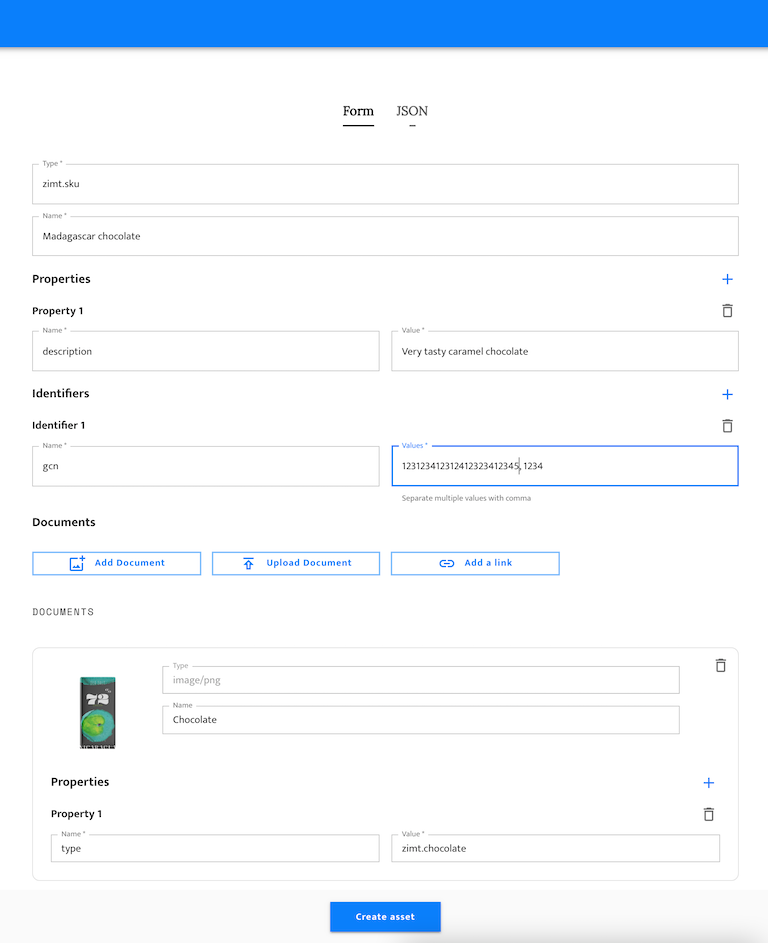
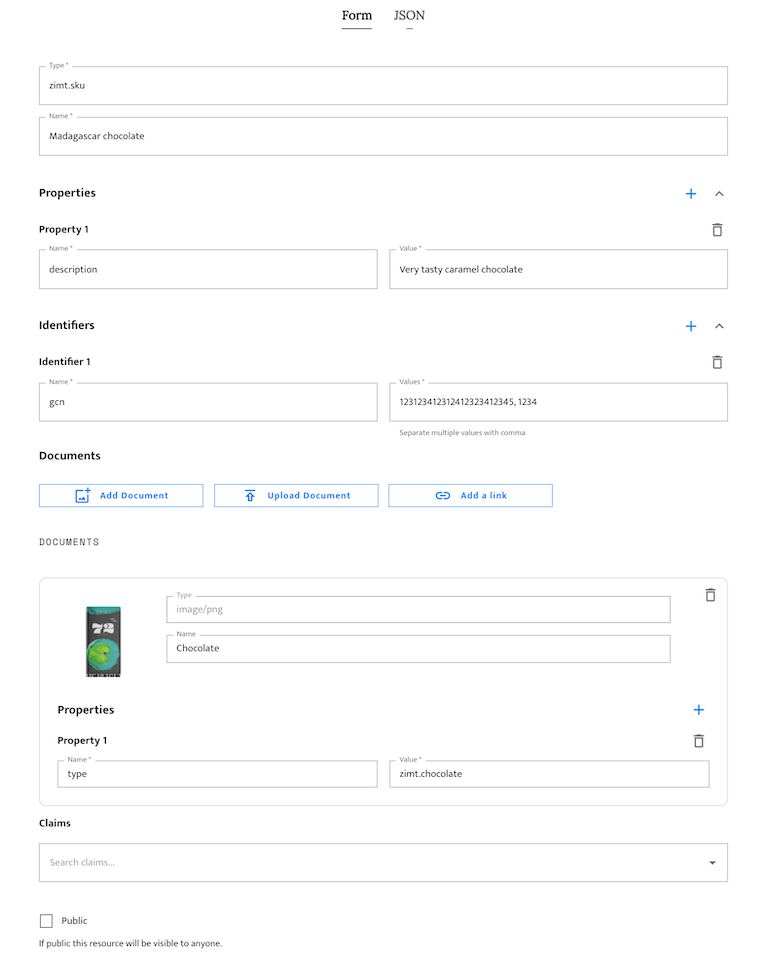
Update optimizations

diff --git a/src/app/components/UI/TextField/TextField.js b/src/app/components/UI/TextField/TextField.js
@@ -1,73 +1,108 @@
-import React from 'react';
+import React, { useState, useEffect, useCallback } from 'react';
 import { TextField, makeStyles } from '@material-ui/core';
 
-import { rgbToRGBA } from '../../../utils';
+import { FormLabel, Typography } from '../../';
+import { debounce } from '../../../utils';
 
 const useStyles = makeStyles(theme => ({
     root: {
+        width: '100%',
+    },
+    input: {
         fontSize: '0.91rem',
-        background: theme.palette.background.primary,
         margin: 0,
+        width: '100%',
     },
-    filled: {
-        borderRadius: 0,
-        border: `1px solid ${rgbToRGBA(theme.palette.text.primary, 14)}`,
-        background: theme.palette.background.primary,
-
-        '&$focused': {
-            background: 'none',
-            color: theme.palette.text.primary,
-        },
-
-        '&:hover': {
-            background: 'none',
-        },
+    formHelperTextRoot: {
+        marginTop: 11,
     },
-    filledInputLabel: {
-        '&$filledInputLabelFocused': {
-            color: theme.palette.text.secondary,
-        },
+    title: {
+        display: 'flex',
+        alignItems: 'center',
+        justifyContent: 'space-between',
+        margin: 0,
+        marginBottom: theme.spacing(0.5),
     },
-    filledInputLabelFocused: {},
-    focused: {
-        color: theme.palette.text.secondary,
-        background: 'none',
+    header: {
+        display: 'flex',
+        flexDirection: 'column',
+        justifyContent: 'flex-start',
+        alignItems: 'flex-start',
+        width: '100%',
+        marginBottom: props => (props.title || props.description) ? theme.spacing(1.5) : 0,
     },
 }), { name: 'ZIMTTextField' });
 
 export default function ZIMTTextField(props) {
-    const classes = useStyles();
+    const classes = useStyles(props);
+    const [value, setValue] = useState(props.value);
 
-    const { endAdornment, ...other } = props;
+    const { title, description, key, style, titleProps = {}, value: _value, onChange: _onChange, ...other } = props;
+
+    useEffect(() => {
+        if (value !== _value) setValue(_value);
+        // eslint-disable-next-line
+    }, [_value]);
+
+    // eslint-disable-next-line
+    const onUpdate = useCallback(
+        debounce(event => _onChange(event), 300),
+        []
+    );
+
+    const onChange = event => {
+        setValue(event.target.value);
+
+        onUpdate(event);
+    };
 
     return (
-        <TextField
-            variant='outlined'
-            color='primary'
-            margin='normal'
+        <div
+            key={key}
+            className={classes.root}
+            style={style}
+        >
+            <div className={classes.header}>
+                {title && (
+                    <FormLabel
+                        className={classes.title}
+                        {...titleProps}
+                    >
+                        {title}
+                    </FormLabel>
+                )}
 
-            classes={{
-                root: classes.root,
-            }}
+                {description && (
+                    <Typography
+                        variant='body2'
+                        className={classes.description}
+                    >
+                        {description}
+                    </Typography>
+                )}
+            </div>
 
-            InputLabelProps={{
-                classes: {
-                    filled: classes.filledInputLabel,
-                    focused: classes.filledInputLabelFocused,
-                },
-            }}
+            <TextField
+                variant='outlined'
+                color='primary'
+                margin='normal'
 
-            InputProps={{
-                classes: {
-                    root: classes[props.variant],
-                    focused: classes.focused,
-                },
-                disableUnderline: ['filled'].indexOf(props.variant) > -1,
-                endAdornment,
-            }}
+                value={value}
 
-            {...other}
-        />
+                onChange={onChange}
+
+                classes={{
+                    root: classes.input,
+                }}
+
+                {...other}
+
+                FormHelperTextProps={{
+                    classes: {
+                        root: classes.formHelperTextRoot,
+                    },
+                }}
+            />
+        </div>
     );
 }
-

diff --git a/src/app/components/UI/FormLabel/FormLabel.js b/src/app/components/UI/FormLabel/FormLabel.js
@@ -1,0 +1,30 @@
+import React from 'react';
+import { FormLabel, makeStyles } from '@material-ui/core';
+
+const useStyles = makeStyles(theme => ({
+    root: {
+        display: 'flex',
+        justifyContent: 'space-between',
+        alignItems: 'center',
+        fontSize: 15,
+        margin: '0 0 16px',
+        textTransform: 'capitalize',
+        color: theme.palette.text.primary,
+        fontWeight: props => props.fontWeight || 600,
+    },
+}), { name: 'ZIMTFormLabel' });
+
+export default function ZIMTFormLabel(props) {
+    const classes = useStyles(props);
+
+    return (
+        <FormLabel
+            classes={{
+                root: classes.root,
+            }}
+            component='h6'
+            {...props}
+        />
+    );
+}
+

diff --git a/src/app/utils/other.util.js b/src/app/utils/other.util.js
@@ -137,7 +137,8 @@ export const debounce = (fn, delay) => {
     let timeoutId;
 
     return function (...args) {
-        clearInterval(timeoutId);
+        clearTimeout(timeoutId);
+
         timeoutId = setTimeout(() => fn.apply(this, args), delay);
     };
 };

diff --git a/src/app/components/UI/index.js b/src/app/components/UI/index.js
@@ -27,4 +27,5 @@ export * from './InputAdornment';
 export * from './Avatar';
 export * from './FormHelperText';
 export * from './Grid';
+export * from './FormLabel';
 export * from './ActiveLink';

diff --git a/src/app/components/UI/FormLabel/index.js b/src/app/components/UI/FormLabel/index.js
@@ -1,0 +1,1 @@
+export { default as FormLabel } from './FormLabel';
